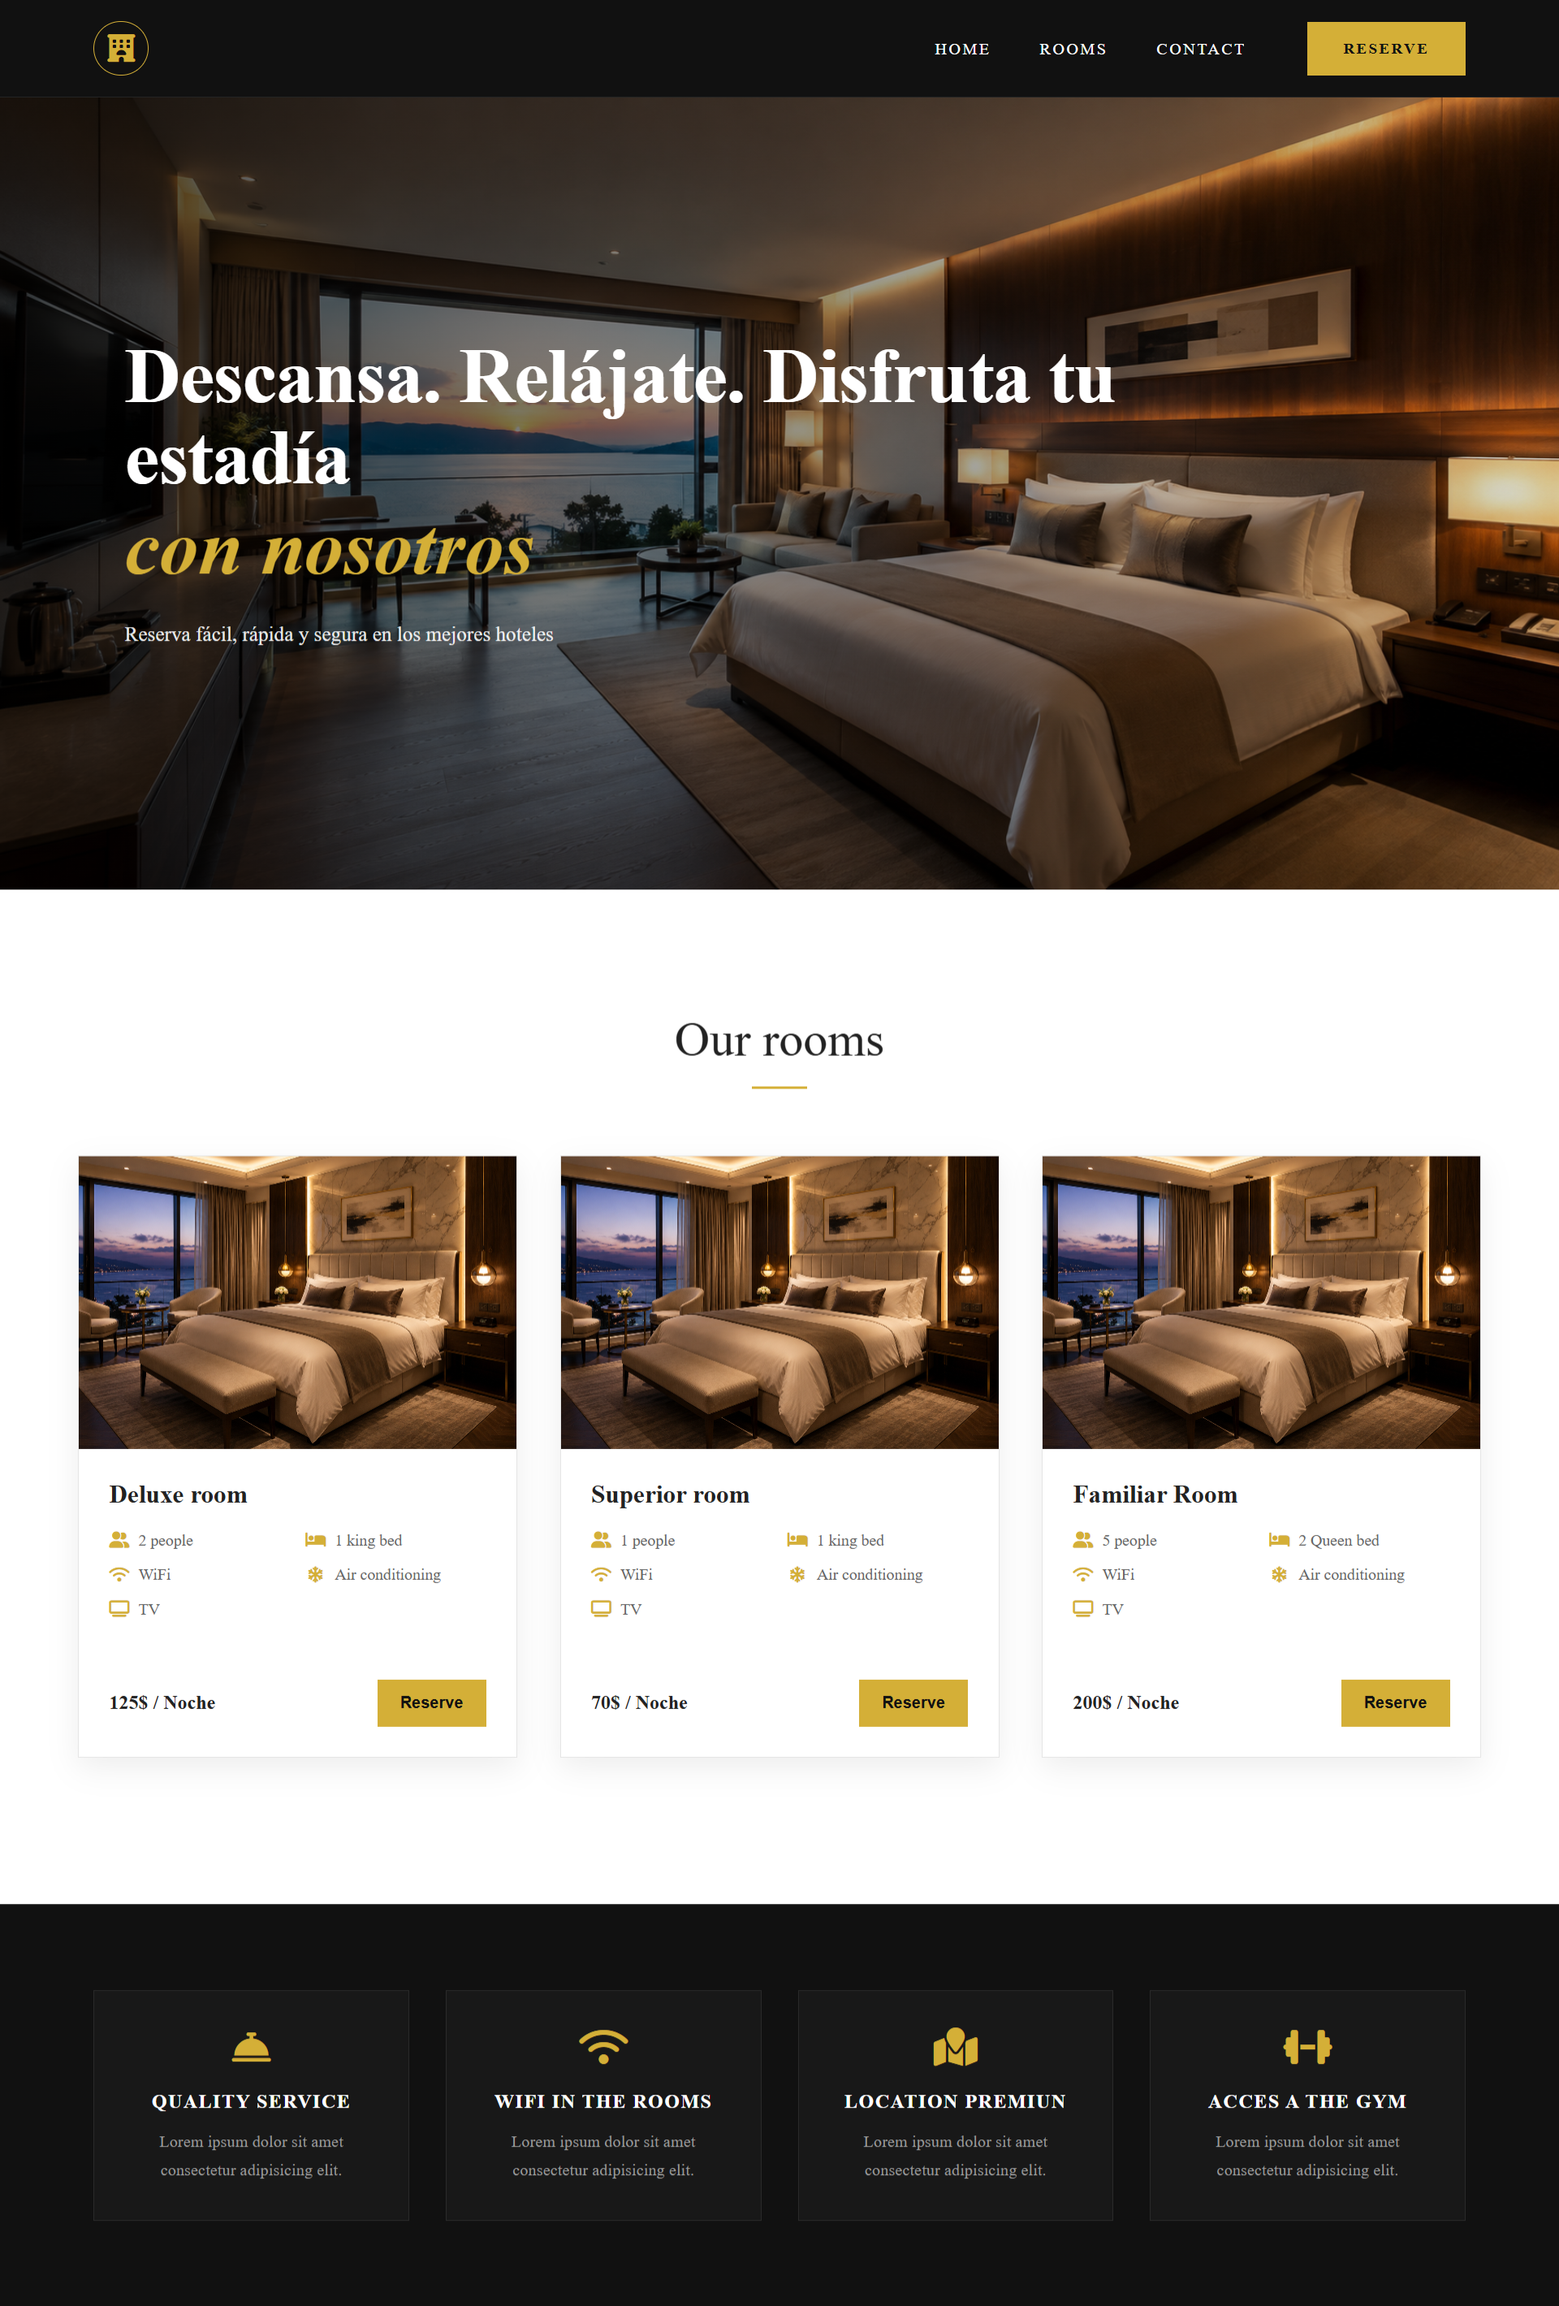
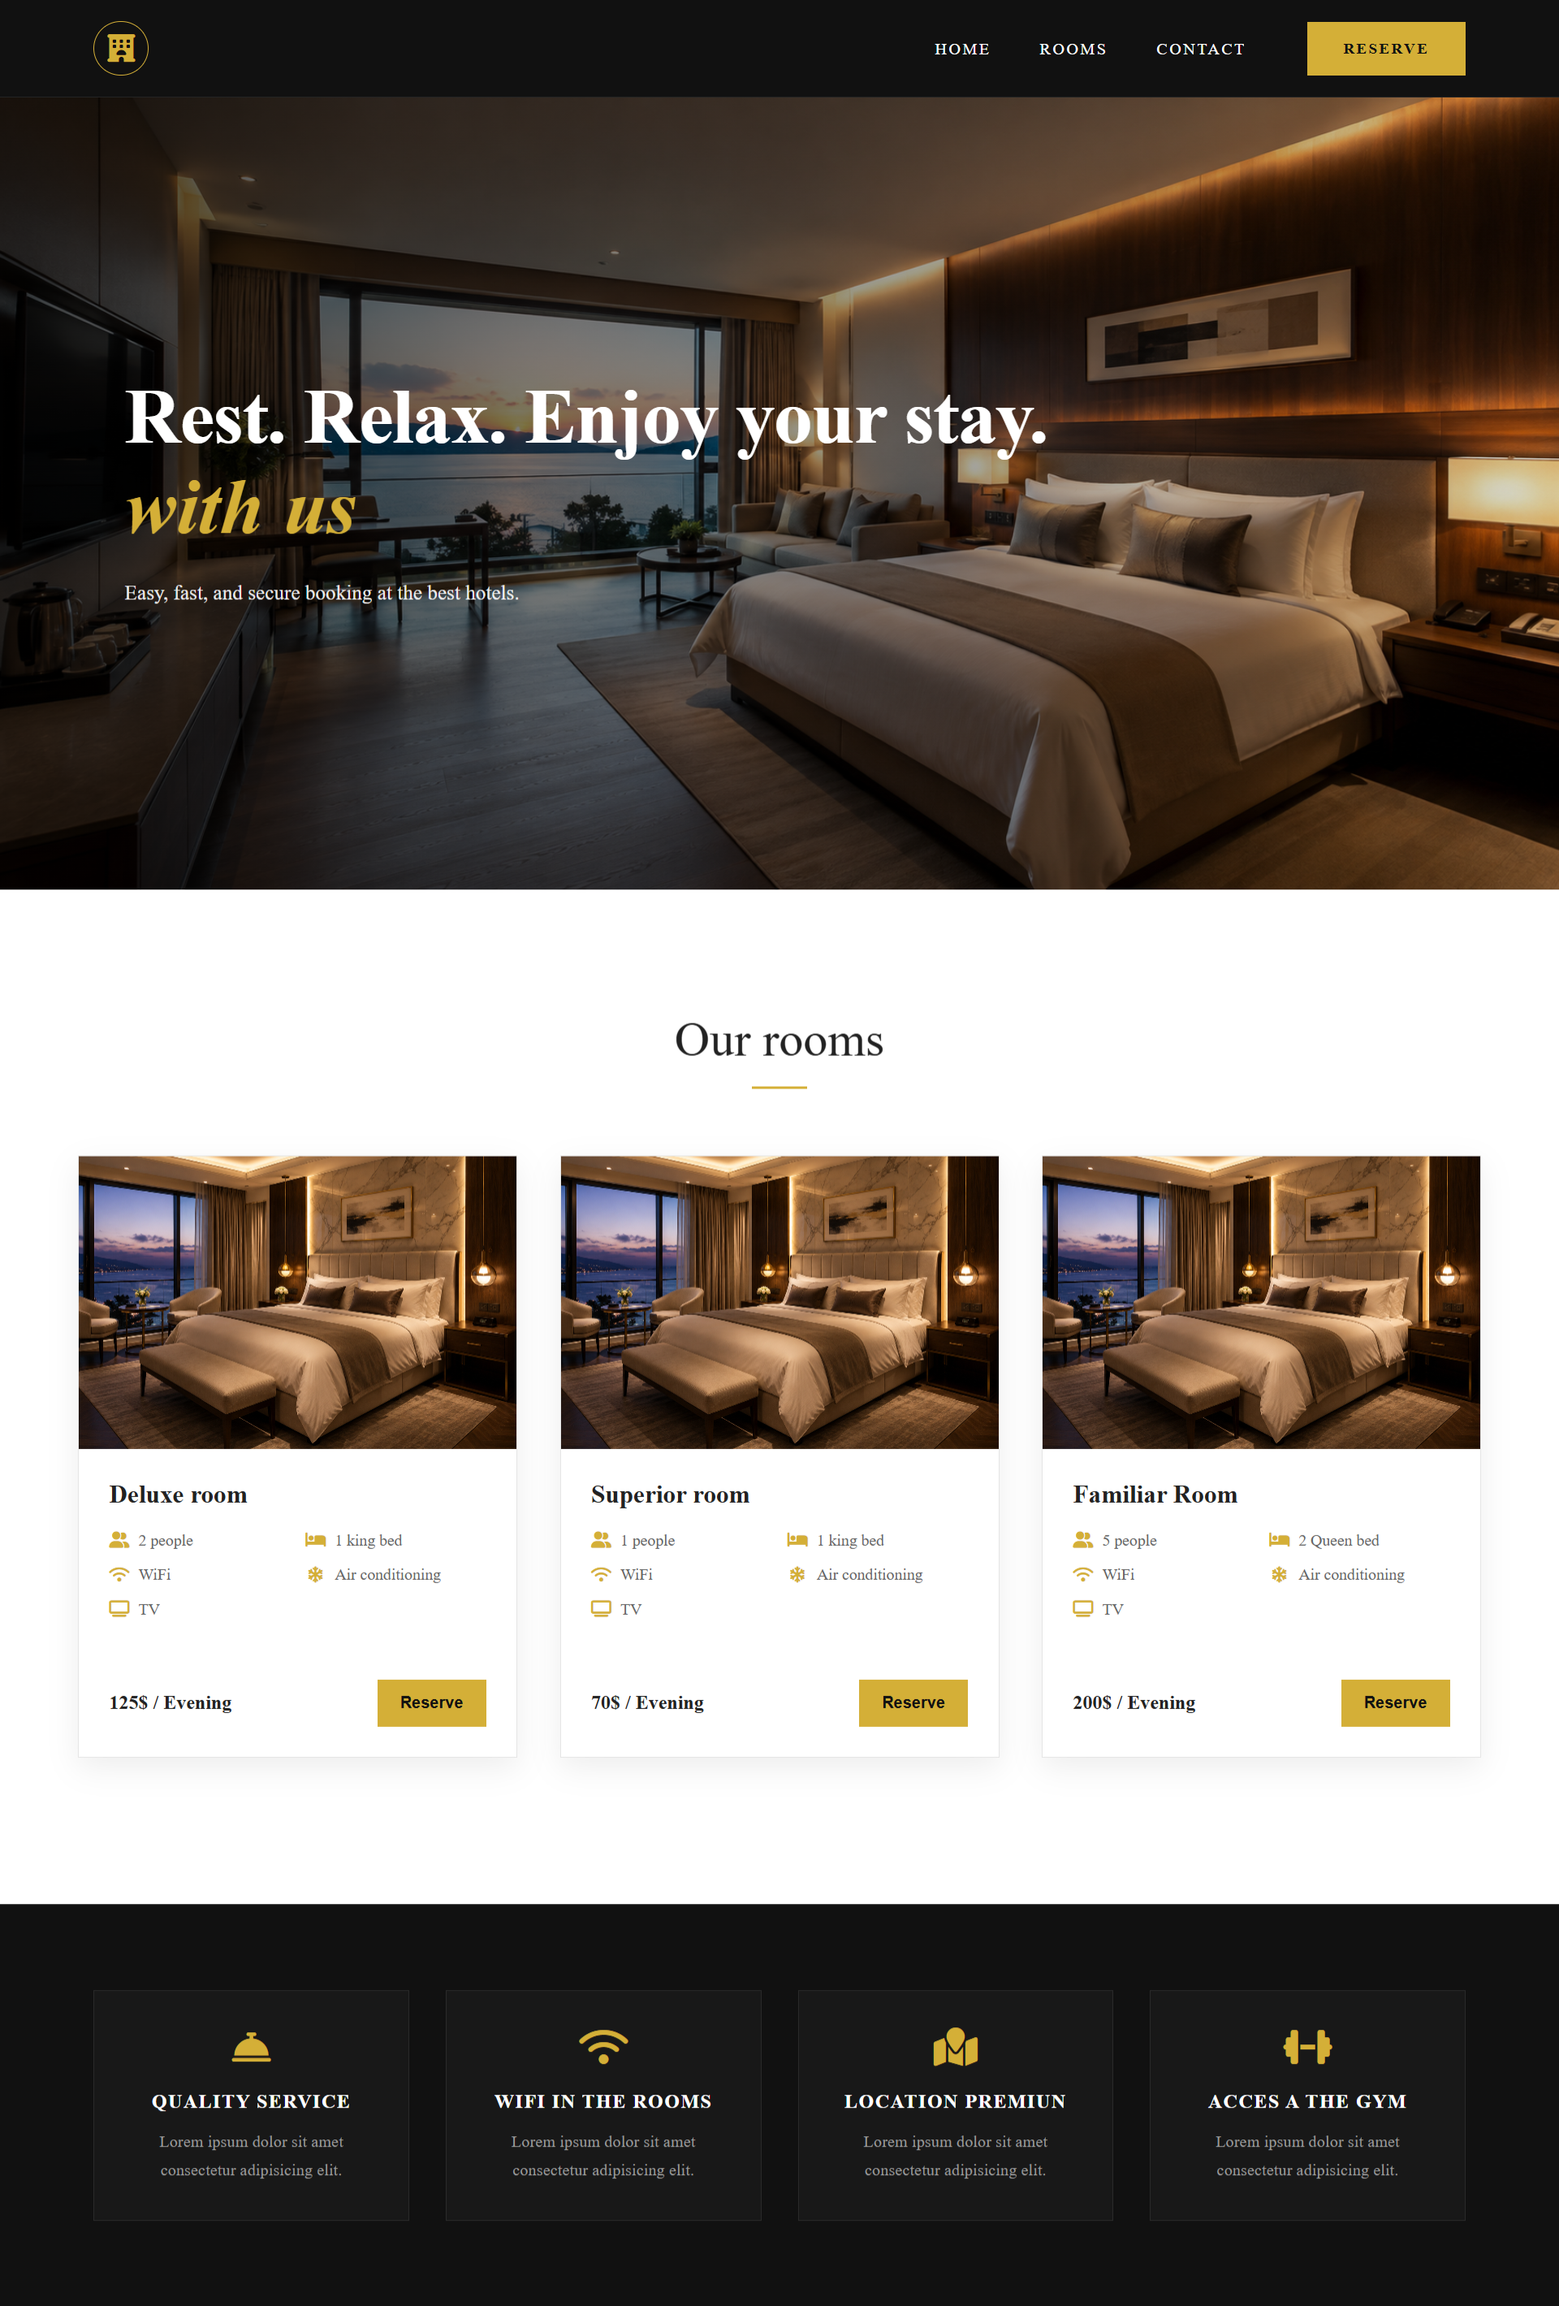
update lenguage

Changed region(s): [[0.0625, 0.155, 0.7188, 0.279], [0.4062, 0.7129, 0.4375, 0.7439]]

diff --git a/resources/views/index.blade.php b/resources/views/index.blade.php
@@ -44,15 +44,15 @@
 
             <div class="frontpage__text">
                 <h1 class="title1">
-                    Descansa. Relájate. Disfruta tu estadía
+                    Rest. Relax. Enjoy your stay.
                 </h1>
 
                 <h1 class="title2">
-                    con nosotros
+                    with us
                 </h1>
 
                 <p>
-                    Reserva fácil, rápida y segura en los mejores hoteles
+                    Easy, fast, and secure booking at the best hotels.
                 </p>
             </div>
         </div>
@@ -97,7 +97,7 @@
                     </ul>
 
                     <div class="card__price">
-                        <h3>125$ / Noche</h3>
+                        <h3>125$ / Evening</h3>
 
                         <button class="card__btn">Reserve</button>
                     </div>
@@ -138,7 +138,7 @@
                     </ul>
 
                     <div class="card__price">
-                        <h3>70$ / Noche</h3>
+                        <h3>70$ / Evening</h3>
 
                         <button class="card__btn">Reserve</button>
                     </div>
@@ -179,7 +179,7 @@
                     </ul>
 
                     <div class="card__price">
-                        <h3>200$ / Noche</h3>
+                        <h3>200$ / Evening</h3>
 
                         <button class="card__btn">Reserve</button>
                     </div>
